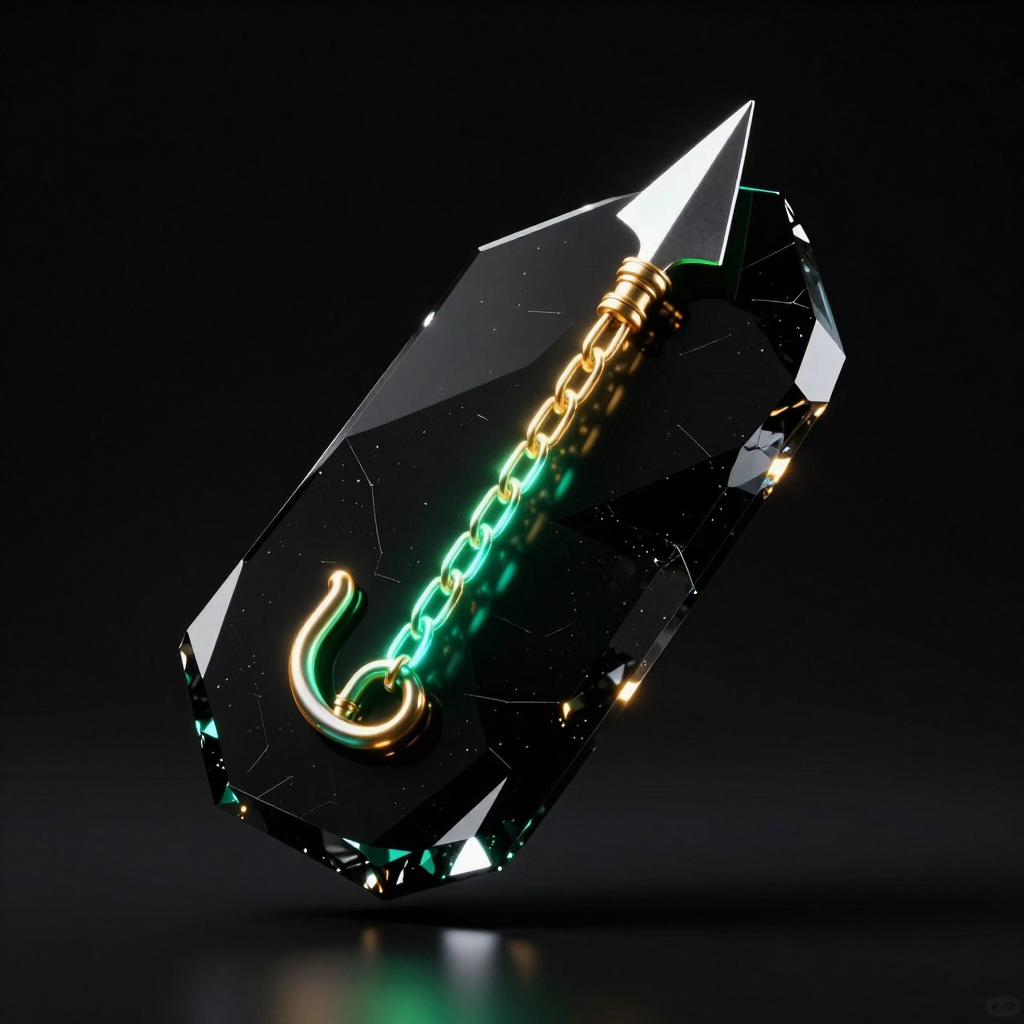
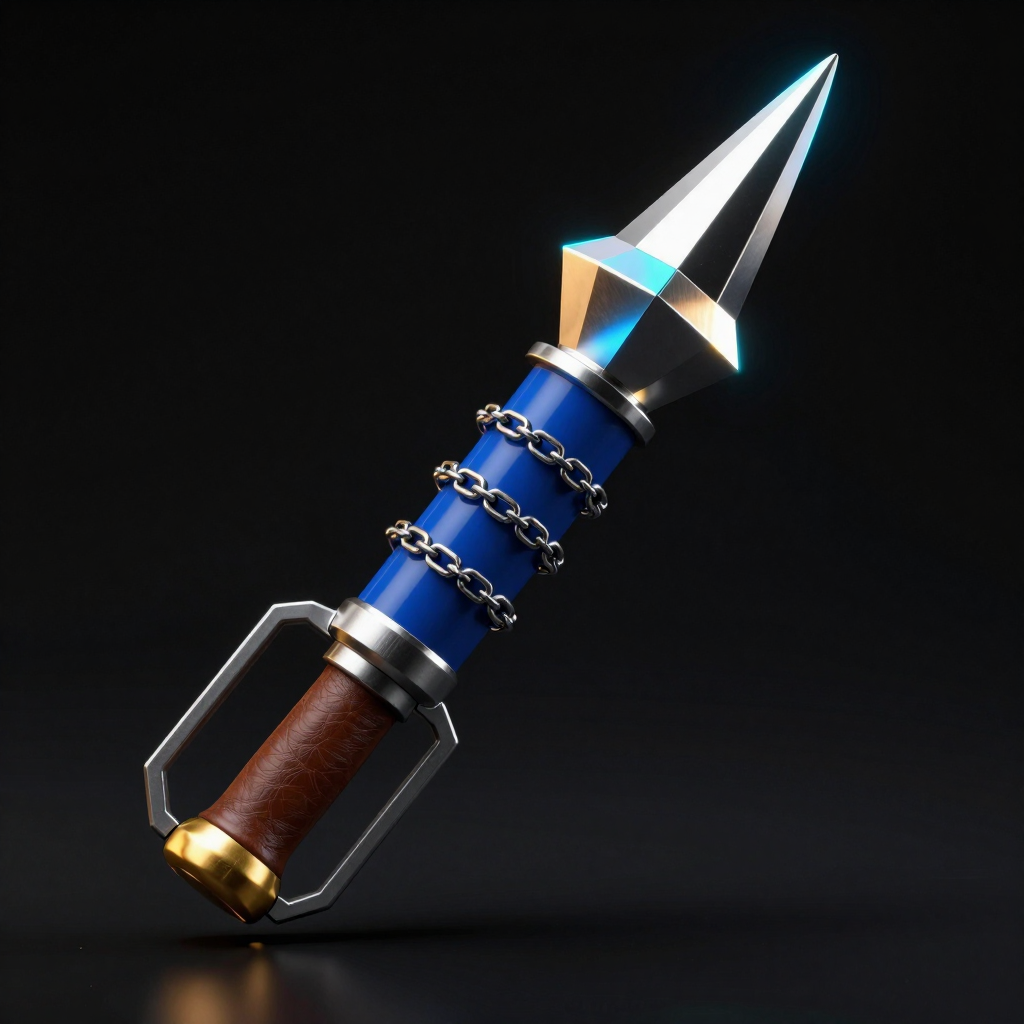
docs(readme): the header shows the Hookshot itself, and the roadmap is a picture under Why Hookshot
The emblem is a new render shaped like the tool (blue barrel, wound chain, spearhead, bracket handle), animated as a
WebP so the wordmark's gradient does not band. The roadmap is three stages on one line (assets/brand/roadmap.png,
scripts/make_roadmap.py), with the same items as text folded under it.

Changed region(s): [[0.125, 0.0312, 0.8438, 1.0], [0.5938, 0.5938, 0.6562, 0.7188]]

diff --git a/scripts/make_roadmap.py b/scripts/make_roadmap.py
@@ -1,0 +1,101 @@
+"""The README's roadmap as a picture: three stages on one line, in the header's type and colours.
+
+    python scripts/make_roadmap.py     (assets/brand/roadmap.png)
+
+The stages and their items are the lists below: edit them and run it again. readme.md repeats the same items as text
+under the picture, for search and screen readers; keep the two alike. Pillow is the only dependency.
+"""
+import argparse
+from pathlib import Path
+
+from PIL import Image, ImageDraw, ImageFilter, ImageFont
+
+BRAND = Path(__file__).resolve().parent.parent / "assets" / "brand"
+FONTS = BRAND / "fonts"
+BG, CARD, EDGE = (6, 7, 11), (13, 16, 24), (30, 36, 52)
+TEXT, MUTED = (226, 232, 240), (140, 150, 170)
+
+STAGES = [
+    ("MERGED HERE", "ahead of the release", (59, 130, 246), [
+        "Fixes from the Longshot fork",
+        "Occlusion queries with real GPU counts",
+        "Moving floors above 100 FPS",
+        "Several users, with a user selector",
+        "Each game in its own folders",
+        "FSR images kept until GPU is done",
+    ]),
+    ("NEXT", "the most reported problems", (34, 211, 238), [
+        "Memory filling up in long sessions",
+        "Game logic above a 60 FPS cap",
+        "Builder stalling at shader prep",
+        "AMD crashes on Windows",
+        "Low FPS in Castle Town, Hyrule Field",
+        "Objects and doors turning invisible",
+    ]),
+    ("LATER", "wider reach", (251, 191, 36), [
+        "A signed Builder (antivirus flags)",
+        "Intel cards",
+        "Cards without mesh shaders",
+        "More games on the same engine",
+    ]),
+]
+
+W, PAD, GAP, TOP = 1600, 60, 28, 150
+ROW, CARD_PAD = 46, 34
+
+
+def font(name, size):
+    return ImageFont.truetype(str(FONTS / name), size)
+
+
+def main():
+    ap = argparse.ArgumentParser()
+    ap.add_argument("--out", default=str(BRAND / "roadmap.png"))
+    a = ap.parse_args()
+    rows = max(len(s[3]) for s in STAGES)
+    card_h = 118 + rows * ROW + CARD_PAD
+    H = TOP + card_h + PAD
+    im = Image.new("RGB", (W, H), BG)
+    card_w = (W - 2 * PAD - 2 * GAP) // 3
+    title, sub = font("Unbounded-ExtraBold.ttf", 30), font("JetBrainsMono-Regular.ttf", 19)
+    # one size for every item: the largest at which the longest of them fits its card
+    size, probe = 24, ImageDraw.Draw(im)
+    longest = max((t for s in STAGES for t in s[3]), key=len)
+    while probe.textlength(longest, font=font("JetBrainsMono-Medium.ttf", size)) > card_w - 2 * CARD_PAD - 26:
+        size -= 1
+    item = font("JetBrainsMono-Medium.ttf", size)
+    # the line the three stages sit on, in the stages' colours, with a soft glow
+    line_y = 84
+    glow = Image.new("RGB", (W, H), BG)
+    gd = ImageDraw.Draw(glow)
+    for n, (_, _, colour, _) in enumerate(STAGES):
+        x0 = PAD + n * (card_w + GAP)
+        gd.rectangle((x0, line_y - 3, x0 + card_w + (GAP if n < 2 else 0), line_y + 3), fill=colour)
+    im = Image.blend(im, glow.filter(ImageFilter.GaussianBlur(14)), 0.9)
+    d = ImageDraw.Draw(im)
+    for n, (name, note, colour, items) in enumerate(STAGES):
+        x0 = PAD + n * (card_w + GAP)
+        d.rectangle((x0, line_y - 2, x0 + card_w + (GAP if n < 2 else 0), line_y + 2), fill=colour)
+        cx = x0 + 34
+        d.ellipse((cx - 17, line_y - 17, cx + 17, line_y + 17), fill=BG, outline=colour, width=5)
+        d.ellipse((cx - 6, line_y - 6, cx + 6, line_y + 6), fill=colour)
+        # the stage's card
+        d.rounded_rectangle((x0, TOP, x0 + card_w, TOP + card_h), radius=22, fill=CARD, outline=EDGE, width=2)
+        d.rounded_rectangle((x0, TOP, x0 + card_w, TOP + 8), radius=4, fill=colour)
+        d.text((x0 + CARD_PAD, TOP + 34), name, font=title, fill=colour)
+        d.text((x0 + CARD_PAD, TOP + 78), note, font=sub, fill=MUTED)
+        for i, text in enumerate(items):
+            y = TOP + 126 + i * ROW
+            d.rounded_rectangle((x0 + CARD_PAD, y + 9, x0 + CARD_PAD + 10, y + 19), radius=3, fill=colour)
+            d.text((x0 + CARD_PAD + 26, y), text, font=item, fill=TEXT)
+    # rounded corners, as the header has
+    out = im.convert("RGBA")
+    mask = Image.new("L", out.size, 0)
+    ImageDraw.Draw(mask).rounded_rectangle((0, 0, W - 1, H - 1), radius=28, fill=255)
+    out.putalpha(mask)
+    out.save(a.out, optimize=True)
+    print("wrote", a.out, out.size)
+
+
+if __name__ == "__main__":
+    main()

diff --git a/scripts/make_hero_anim.py b/scripts/make_hero_anim.py
@@ -1,7 +1,7 @@
 """The README header's animation: a band of light that crosses assets/brand/hero.png, then a rest.
 
     python scripts/make_hero.py        (the still banner, from the emblem)
-    python scripts/make_hero_gif.py    (assets/brand/hero.gif, from the still banner)
+    python scripts/make_hero_anim.py    (assets/brand/hero.webp, from the still banner)
 
 The light only brightens what is already bright (the emblem's edges, the chain, the wordmark), so the dark background
 stays one flat colour and the file stays small. Pillow is the only dependency.
@@ -12,7 +12,7 @@ from pathlib import Path
 from PIL import Image, ImageChops, ImageFilter
 
 BRAND = Path(__file__).resolve().parent.parent / "assets" / "brand"
-W, H = 800, 300            # the size the README shows
+W, H = 1200, 450           # 1.5x of the 800x300 the README shows
 BG = (6, 7, 11)            # (scripts/make_hero.py's canvas)
 SWEEP_FRAMES, REST_MS, FRAME_MS = 34, 2600, 45
 
@@ -23,37 +23,32 @@ def band(x):
     px = im.load()
     for y in range(H):
         cx = x + (H / 2 - y) * 0.45          # leaning to the right at the top
-        for dx in range(-90, 91):
+        for dx in range(-135, 136):
             xx = int(cx + dx)
             if 0 <= xx < W:
-                px[xx, y] = max(px[xx, y], int(255 * (1 - abs(dx) / 90) ** 2))
-    return im.filter(ImageFilter.GaussianBlur(6))
+                px[xx, y] = max(px[xx, y], int(255 * (1 - abs(dx) / 135) ** 2))
+    return im.filter(ImageFilter.GaussianBlur(9))
 
 
 def main():
     ap = argparse.ArgumentParser()
     ap.add_argument("--hero", default=str(BRAND / "hero.png"))
-    ap.add_argument("--out", default=str(BRAND / "hero.gif"))
+    ap.add_argument("--out", default=str(BRAND / "hero.webp"))
     a = ap.parse_args()
     hero = Image.open(a.hero).convert("RGBA").resize((W, H), Image.LANCZOS)
     still = Image.new("RGB", (W, H), BG)
-    still.paste(hero, (0, 0), hero)           # (a GIF has no soft edge: the rounded corners sit on the canvas colour)
+    still.paste(hero, (0, 0), hero)           # (the rounded corners sit on the canvas colour)
     bright = still.convert("L").point(lambda v: 0 if v < 70 else min(255, (v - 70) * 2))   # where there is light to catch
     frames, durations = [still], [REST_MS]
     for i in range(SWEEP_FRAMES):
-        x = -140 + (W + 280) * i / (SWEEP_FRAMES - 1)
+        x = -210 + (W + 420) * i / (SWEEP_FRAMES - 1)
         glint = ImageChops.multiply(band(x), bright).point(lambda v: v * 0.6)
         lit = ImageChops.add(still, Image.merge("RGB", (glint, glint, glint)))
         frames.append(lit)
         durations.append(FRAME_MS)
-    # one palette for every frame, from the still and the brightest frames together, so the picture does not shimmer
-    sample = Image.new("RGB", (W, H * 3))
-    for n, f in enumerate((still, frames[len(frames) // 3], frames[2 * len(frames) // 3])):
-        sample.paste(f, (0, H * n))
-    palette = sample.quantize(colors=255, method=Image.Quantize.MEDIANCUT, dither=Image.Dither.NONE)
-    out = [f.quantize(palette=palette, dither=Image.Dither.FLOYDSTEINBERG) for f in frames]
-    out[0].save(a.out, save_all=True, append_images=out[1:], duration=durations, loop=0, optimize=False, disposal=1)
-    print("wrote", a.out, "%d frames, %.0f KB" % (len(out), Path(a.out).stat().st_size / 1024))
+    # animated WebP, not GIF: a GIF's 256 colours band the wordmark's gradient and its glow
+    frames[0].save(a.out, save_all=True, append_images=frames[1:], duration=durations, loop=0, quality=88, method=6)
+    print("wrote", a.out, "%d frames, %.0f KB" % (len(frames), Path(a.out).stat().st_size / 1024))
 
 
 if __name__ == "__main__":

diff --git a/scripts/make_hero.py b/scripts/make_hero.py
@@ -26,10 +26,10 @@ FOOTLINE = "Vulkan  ·  DLSS  ·  FSR 4  ·  HDR  ·  frame generation  ·  ultr
 
 W, H = 1600, 600          # 2x of the 800x300 the README shows
 BG = (6, 7, 11)
-# The emblem's own colours: emerald, cyan, gold.
-C_EMERALD, C_CYAN, C_GOLD = (52, 211, 153), (34, 211, 238), (251, 191, 36)
-C_INDIGO = (16, 120, 96)   # (the glow behind the wordmark)
-GRADIENT = [(248, 250, 252), (226, 232, 240), C_EMERALD, C_CYAN, C_GOLD]
+# The emblem's own colours: the barrel's blue, cyan, the grip cap's gold.
+C_BLUE, C_CYAN, C_GOLD = (59, 130, 246), (34, 211, 238), (251, 191, 36)
+C_INDIGO = (30, 64, 175)   # (the glow behind the wordmark)
+GRADIENT = [(248, 250, 252), (226, 232, 240), C_BLUE, C_CYAN, C_GOLD]
 
 
 def font(name, size):

diff --git a/readme.md b/readme.md
@@ -1,5 +1,5 @@
 <p align="center">
-  <img src="assets/brand/hero.gif" alt="Hookshot: Ocarina of Time running natively on Windows and Linux, with no emulator" width="800">
+  <img src="assets/brand/hero.webp" alt="Hookshot: Ocarina of Time running natively on Windows and Linux, with no emulator" width="800">
 </p>
 
 <p align="center">
@@ -16,13 +16,13 @@
 </p>
 
 <p align="center">
+  <a href="#roadmap">Roadmap</a> •
   <a href="#project-status">Status</a> •
   <a href="#install-and-play">Install and play</a> •
   <a href="#in-game-menu">In-game menu</a> •
   <a href="#if-something-goes-wrong">Problems</a> •
   <a href="#build-from-source">Build from source</a> •
   <a href="#how-it-works">How it works</a> •
-  <a href="#roadmap">Roadmap</a> •
   <a href="#want-to-help">Want to help?</a> •
   <a href="#credits">Credits</a> •
   <a href="#license">License</a>
@@ -66,6 +66,57 @@
   </tr>
 </table>
 
+## Roadmap
+
+Where the work is going. The order follows the scored [worklist](docs/worklist.md) (how bad a problem is, times how
+many players it reaches), so it changes as reports come in. Nothing here is a promise or a date.
+
+<p align="center">
+  <img src="assets/brand/roadmap.png" alt="Roadmap in three stages: merged here ahead of the release, next, and later. The same items are listed as text below." width="800">
+</p>
+
+<details>
+<summary><b>The roadmap as text</b></summary>
+
+<table>
+  <tr>
+    <th width="33%">✅ Merged here, ahead of the release</th>
+    <th width="33%">🔨 Next</th>
+    <th width="33%">🔭 Later</th>
+  </tr>
+  <tr>
+    <td valign="top">
+      <ul>
+        <li>Fixes from the Longshot fork, and occlusion queries answered with the GPU's real counts</li>
+        <li>A moving floor carries Link above 100 FPS as it does at 60</li>
+        <li>Several users with a user selector, and each game in its own game, work and save folders</li>
+        <li>Service sessions answered properly; a headless run ends on Ctrl+C again; a benchmark never leaves its game running</li>
+        <li>A cheaper texture upload path, and FSR's shared images kept until the GPU has finished with them</li>
+      </ul>
+    </td>
+    <td valign="top">
+      <ul>
+        <li>Memory that fills up over a long session until the game slows or stops: the most reported problem</li>
+        <li>Game logic that misbehaves above a 60 FPS cap (the Scarecrow's Song, looping animations in dialogue)</li>
+        <li>The Builder stalling at "Preparing shaders"</li>
+        <li>Crashes and lost devices on AMD cards on Windows</li>
+        <li>Low frame rates with an idle GPU in Castle Town and Hyrule Field; stutter on camera turns in Kokiri Forest</li>
+        <li>Objects, walls and doors that turn invisible</li>
+      </ul>
+    </td>
+    <td valign="top">
+      <ul>
+        <li>A signed Builder, so antivirus programs stop flagging it</li>
+        <li>Intel cards, which have few reports and many black screens</li>
+        <li>Cards without mesh shaders, which today miss parts of the picture</li>
+        <li>More games on the same engine (<a href="docs/one-engine.md">one engine</a>)</li>
+      </ul>
+    </td>
+  </tr>
+</table>
+
+</details>
+
 ## Quick start
 
 1. Download `HookshotBuilder.exe` (Windows) or the AppImage (Linux) from the
@@ -106,36 +157,6 @@ This repository is developed and play-tested on a GeForce RTX 5090 and a Ryzen 9
 | Linux | ✅ Works with the AppImage. Tested on several distributions (CachyOS, Fedora, Bazzite, SteamOS) and cards, with open problems on some AMD cards ([#1000](https://github.com/NotRexed/Hookshot/issues/1000)) |
 
 </details>
-
-## Roadmap
-
-Where the work is going. The order follows the scored [worklist](docs/worklist.md) (how bad a problem is, times how
-many players it reaches), so it changes as reports come in. Nothing here is a promise or a date.
-
-**Merged in this repository, ahead of the release**
-
-- Fixes brought over from the Longshot fork, and the game's occlusion queries answered with the GPU's real counts.
-- A moving floor carries Link above 100 FPS as it does at 60.
-- As many users as a game asks for, with a user selector, and each game in its own game, work and save folders.
-- Smaller fixes: service sessions answered properly, a headless run that ends on Ctrl+C again, a benchmark that never
-  leaves its game running, a cheaper texture upload path, and FSR's shared images kept until the GPU has finished
-  with them.
-
-**Next**
-
-- Memory that fills up over a long play session until the game slows or stops: the most reported problem.
-- Game logic that misbehaves above a 60 FPS cap (the Scarecrow's Song, looping animations in dialogue).
-- The Builder stalling or taking very long at "Preparing shaders".
-- Crashes and lost devices on AMD cards on Windows.
-- Low frame rates with an idle GPU in Castle Town and Hyrule Field, and stutter on camera turns in Kokiri Forest.
-- Objects, walls and doors that turn invisible.
-
-**Later**
-
-- A signed Builder, so antivirus programs stop flagging it.
-- Intel cards, which have few reports and many black screens.
-- Cards without mesh shaders, which today miss parts of the picture.
-- More games on the same engine ([one engine](docs/one-engine.md)).
 
 ## Install and play
 

diff --git a/assets/brand/README.md b/assets/brand/README.md
@@ -2,27 +2,31 @@
 
 ## The mark
 
-A grapple: a spear tip, a length of chain lit emerald to gold, and a hook, set into a slab of black obsidian glass with
-sharp facets. It is the tool in the name, rendered rather than drawn. It shows nothing from the game.
+The tool in the name, as an object of its own: a blue barrel with chain wound around it, a four-sided steel spearhead
+at the front and a bracket handle with a leather grip and a gold cap at the back. The shape follows the Hookshot the
+project's first logo (`assets/hookshot.png`) shows; the picture itself is a new render, not artwork from the game.
 
 `emblem.png` was rendered locally on 2026-11-14 with **Z-Image-Turbo** (Apache 2.0) in ComfyUI on an RTX 5090: 8 steps,
-`res_multistep` sampler, cfg 1, 1024×1024, seed `411`. Prompt:
+`res_multistep` sampler, cfg 1, 1024×1024, seed `502`. Prompt:
 
-> A premium brand emblem: a grappling hook with a spear-shaped tip and a short length of chain, the chain made of
-> glowing neon light, emerald green fading to cyan and warm gold, shooting diagonally through a thick slab of black
-> obsidian glass, carved from black obsidian glass with razor-sharp bevelled facets, light leaking through the edges,
-> floating centered on a pure black background, faint reflection on a glossy black floor below, premium 3D render,
-> cinematic rim lighting, no text, no letters, no logos
+> A premium brand emblem of a fantasy grappling device: a short thick cobalt-blue cylinder barrel with a steel chain
+> wound tightly around its middle in three rows, a large four-sided silver pyramid spearhead tip mounted on the front
+> of the cylinder, and at the back an angular grey metal handle frame shaped like an open bracket holding a grip
+> wrapped in brown leather with gold end caps, made of polished black obsidian glass and brushed steel with
+> razor-sharp bevelled facets, edges glowing with neon light in sapphire blue, cyan and warm gold, the whole device
+> pointing diagonally up to the right, floating centered on a pure black background, faint reflection on a glossy
+> black floor below, premium 3D render, cinematic rim lighting, single object, no text, no letters, no logos
 
-Six candidates were rendered and compared on a contact sheet: two of the grapple through a slab, two of a tip with a
-chain behind it, two of a chain around a gem. Seed 411 is the only one that reads as tip, chain and hook at once.
+Twelve candidates were compared on two contact sheets. The first six were abstract (a grapple through a slab of glass,
+a tip with a chain, a chain around a gem) and did not read as the Hookshot. Of the second six, seed 502 has every part
+in the right place: barrel, chain, spearhead, bracket handle and grip.
 
 ## Derived files
 
 | File | Size | Built by | Use |
 |---|---|---|---|
 | `hero.png` | 1600×600, rounded corners | `python scripts/make_hero.py` | The still banner |
-| `hero.gif` | 800×300, 35 frames | `python scripts/make_hero_gif.py` | The README header: a band of light crosses the banner, then rests |
+| `hero.webp` | 1200×450, 35 frames, animated WebP | `python scripts/make_hero_anim.py` | The README header: a band of light crosses the banner, then rests |
 | `social-preview.png` | 1280×640 | `python scripts/make_hero.py` | GitHub's social preview (uploaded by hand in Settings) |
 | `icon.png` | 512×512, rounded square | `python scripts/make_hero.py` | Listings and avatars |
 
@@ -30,8 +34,8 @@ Both scripts need only Pillow, and rebuild every file from `emblem.png`.
 
 ## Type and colour
 
-- Wordmark: **Unbounded** ExtraBold (SIL Open Font License), white to emerald `#34d399` to cyan `#22d3ee` to gold
-  `#fbbf24`, the emblem's own colours, over a soft green glow.
+- Wordmark: **Unbounded** ExtraBold (SIL Open Font License), white to blue `#3b82f6` to cyan `#22d3ee` to gold
+  `#fbbf24`, the emblem's own colours, over a soft blue glow.
 - Tagline and labels: **JetBrains Mono** (SIL OFL).
 - Background `#06070b`; text `#f8fafc`, muted `#cbd5e1`.
 - Both fonts are vendored in `fonts/` as static instances, with their licence files.
